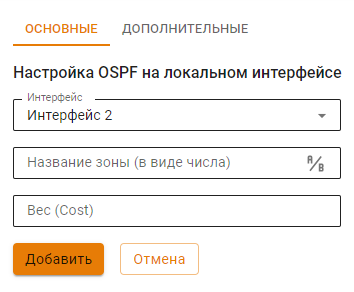
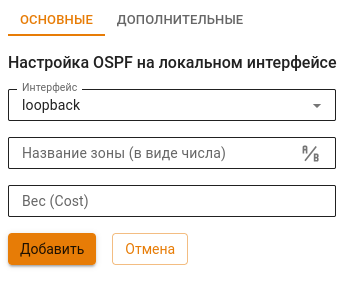
ICS-40418 УТМ. Дополнить статью Loopback-интерфейсы и смежные статьи

diff --git a/settings/services/connection-to-provider/loopback.md b/settings/services/connection-to-provider/loopback.md
@@ -1,6 +1,6 @@
 # Настройка Loopback-интерфейса
 
-Loopback - это виртуальный интерфейс, который может использоваться для динамической маршрутизации (BGP), удаленного администрирования и подключения пользователей по VPN. Преимущество Loopback-интерфейса в том, что он никогда не будет в состоянии Down - не перестанет работать, пока его не отключат административно.
+Loopback - это виртуальный интерфейс, который может использоваться для динамической маршрутизации (BGP и OSPF), удаленного администрирования и подключения пользователей по VPN. Преимущество Loopback-интерфейса в том, что он никогда не будет в состоянии Down - не перестанет работать, пока его не отключат административно.
 
 Чтобы создать Loopback-интерфейс на Ideco NGFW, выполните действия:
 
@@ -32,24 +32,26 @@ Loopback - это виртуальный интерфейс, который мо
 
 Loopback-интерфейс можно использовать:
 
-1\. Для доступа к веб-интерфейсу Ideco NGFW:
-
-* Укажите в адресной строке браузера `<IP-адрес Loopback-интерфейса>:8443`.
+1\. Для доступа к веб-интерфейсу Ideco NGFW укажите в адресной строке браузера `<IP-адрес Loopback-интерфейса>:8443`.
 
 2\. Для доступа к серверу по SSH: 
 
 * [Разрешите доступ по SSH](/settings/server-management/admins.md);
 * Введите в терминале `ssh login@<IP-адрес Loopback-интерфейса>`.
 
-3\. Для подключения пользователей по VPN:
+3\. Для подключения пользователей по VPN на устройстве пользователя при [создании VPN-подключения](/recipes/popular-recipes/vpn/README.md) в качестве шлюза укажите домен или IP-адрес Loopback-интерфейса.
 
-* На устройстве пользователя при [создании VPN-подключения](/recipes/popular-recipes/vpn/README.md) в качестве шлюза укажите домен или IP-адрес Loopback-интерфейса.
+4\. В разделе **[BGP](/settings/services/bgp.md)** при добавлении **BGP-соседей** укажите в поле **Исходящий интерфейс** Loopback-интерфейс.
 
-4\. При настройке BGP-маршрутизации:
+5\. При настройке **[OSPF](/settings/services/ospf.md)** укажите в поле **Интерфейс** Loopback-интерфейс.
 
-* В [настройках **BGP**](/settings/services/bgp.md) при добавлении **BGP-соседей** укажите в поле **Исходящий интерфейс** Loopback-интерфейс.
+6\. При создании [маршрута Null route](/settings/services/routing.md#маршрутизация-локальных-сетей) укажите Loopback-интерфейс в качестве шлюза для подсети/IP-адресов. В этом случае весь входящий на NGFW трафик, предназначенный для этих адресов, будет отбрасываться.
+
+7\. При создании [DNAT-правила](/settings/access-rules/firewall-tables.md#создание-правил) **Файрвола** в поле **Адрес назначения** укажите IP-адрес, назначенный на Loopback-интерфейс. Опубликованные ресурсы будут доступны по IP-адресу Loopback-интерфейса.
+
+8\. При создании [SNAT-правила](/settings/access-rules/firewall-tables.md#создание-правил) **Файрвола** в поле **Сменить IP-адрес источника** укажите IP-адрес, назначенный на Loopback-интерфейс. Исходный адрес, указанный в поле **Адрес источника**, будет заменен на адрес Loopback-интерфейса.
 
 {% hint style="warning" %}
-Чтобы подключиться к Loopback-интерфейсу, нужно настроить маршрутизацию до IP-адреса, назначенного на этот Loopback-интерфейс.
+Для подключения к Loopback-интерфейсу настройте маршрутизацию до IP-адреса, назначенного на этот Loopback-интерфейс.
 {% endhint %}
 

diff --git a/settings/services/ospf.md b/settings/services/ospf.md
@@ -7,11 +7,7 @@
 
 В Ideco NGFW реализована поддержка OSPF (Open Shortest Path First) - протокола маршрутизации по состоянию каналов. Канал - это интерфейс маршрутизатора или сегмент сети, который соединяет два маршрутизатора. 
 
-Использование модуля лучше всего в сетях, использующих балансировку нагрузки на сеть и резервирование каналов.
-
-{% hint style="info" %}
-При настройке OSPF доступны GRE-интерфейсы.
-{% endhint %}
+Использовать модуль лучше всего в сетях, где применяется балансировка нагрузки на сеть и резервирование каналов.
 
 Пример топологии с использованием OSPF представлен на схеме ниже:
 
@@ -71,7 +67,7 @@
 
 <img src="/.gitbook/assets/ospf7.png" alt="" data-size="original">
 
-* **Интерфейс** - выберите локальный интерфейс, подключенный к роутеру;
+* **Интерфейс** - выберите локальный или [Loopback-интерфейс](/settings/services/connection-to-provider/loopback.md) Ideco NGFW, IP-адрес которого будет использован для обмена маршрутами;
 * **Название зоны** - введите номер зоны (для небольших сетей введите зону 0). Можно ввести в виде числа или IP-адреса, нажав иконку ![](/.gitbook/assets/icon-ospf.png);
 * **Вес** - введите стоимость маршрута.
   
@@ -92,12 +88,12 @@
 * Поставьте крестик на модуле **Routing**;
 * Укажите необходимые интерфейсы, но БЕЗ статических маршрутов:
 
-    ![](/.gitbook/assets/ospf9.png)
+![](/.gitbook/assets/ospf9.png)
 
 * Для начала установки введите **i** и нажмите **Enter**;
 * Появится сообщение "All data on the disk will be erased. Continue?", ведите **y** и нажмите **Enter**:
     
-    ![](/.gitbook/assets/ospf10.png)
+![](/.gitbook/assets/ospf10.png)
 
 2\. После установки RouterOS требуется его перезагрузить, нажав **Enter**:
 
@@ -130,7 +126,7 @@
 
 * **Redistribute default** - будут анонсироваться маршруты по умолчанию. Устройство, принявшее эту информацию, будет отправлять на NGFW весь трафик;
 * **Redistribute static** - будут анонсироваться статические маршруты, указанные на вкладке **Сервисы -> Маршрутизация -> Локальных сетей**;
-* **Redistribute connected** - будут анонсироваться маршруты напрямую подключенных подсетей.
+* **Redistribute connected** - будут анонсироваться маршруты напрямую подключенных подсетей, в том числе и Loopback-интерфейсов. При отключении настройки сети Loopback-интерфейсов будут анонсироваться, если при добавлении в конфигурацию OSPF Loopback-интерфейса.
 
 Подробнее о значении поля **Метрика** - в [статье](https://docs.frrouting.org/en/latest/ospfd.html#ospf-redistribute).
 

diff --git a/settings/services/routing.md b/settings/services/routing.md
@@ -77,6 +77,18 @@ description: >-
 
 <details>
 
+<summary>Задача: отбрасывать весь трафик до подсети `89.50.100.0/24`</summary>
+
+На вкладке **Маршрутизация локальных сетей** создайте правило Null route:
+
+<img src="/.gitbook/assets/routing11.png" alt="" data-size="original">
+
+Укажите Loopback-интерфейс в качестве шлюза. В этом случае весь входящий на NGFW трафик, предназначенный для подсети `89.50.100.0/24`, будет отбрасываться.
+
+</details>
+
+<details>
+
 <summary>Задача: любой трафик в подсеть `150.1.0.0/16` направлять на шлюз `67.12.8.9`</summary>
 
 <img src="/.gitbook/assets/routing8.png" alt="" data-size="original">
